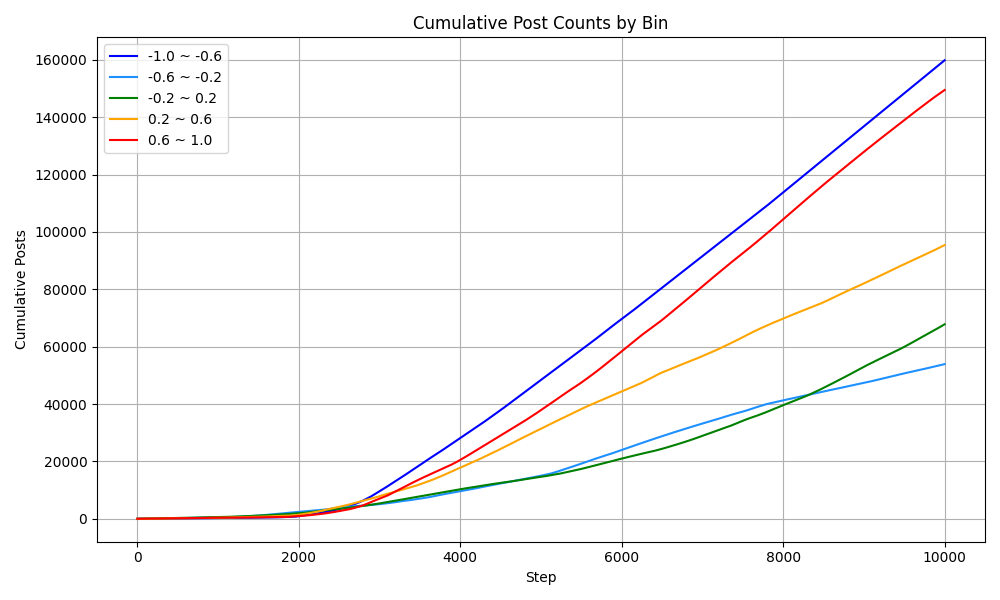
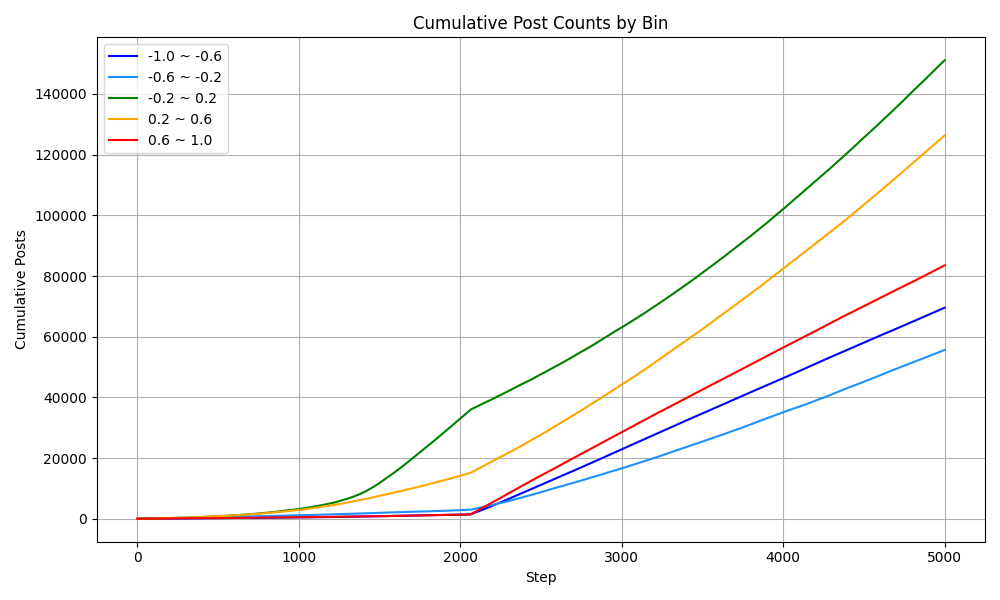
experiment does not go well

diff --git a/src/agent/Agent.java b/src/agent/Agent.java
@@ -40,6 +40,7 @@ public class Agent {
         this.postProb = Const.INITIAL_POST_PROB;
         this.followRate = Const.INITIAL_FOLLOW_RATE;
         this.unfollowRate = Const.INITIAL_UNFOLLOW_RATE;
+        setNumOfPosts(rand.nextInt(90) + 10);
         /*
          * if(0.1 > rand.nextDouble()){
          * this.traitor = true;
@@ -86,7 +87,7 @@ public class Agent {
         return this.postProb;
     }
 
-    public PostCash getPostCash(){
+    public PostCash getPostCash() {
         return this.postCash;
     }
 
@@ -147,6 +148,14 @@ public class Agent {
         this.feed = feed.clone();
     }
 
+    public void setPostProb(double value){
+        this.postProb = value;
+    }
+
+    public void setMediaUseRate(double value){
+        this.mediaUseRate = value;
+    }
+
     // other methods
     public void resetPostCash() {
         this.postCash.reset();
@@ -155,7 +164,7 @@ public class Agent {
 
     public void updateMyself() {
         // feedには誰の投稿を何件閲覧するかが書かれている
-        if(this.feed == null){
+        if (this.feed == null) {
             return;
         }
         Post[] tempFeed = this.feed.clone();
@@ -165,14 +174,14 @@ public class Agent {
         int comfortPostNum = 0;
         // feedに表示される投稿は全て閲覧する
         for (Post post : tempFeed) {
-                temp += post.getPostOpinion();
-                postNum++;
-                if (Math.abs(post.getPostOpinion() - this.opinion) < Const.MINIMUM_BC) {
-                    comfortPostNum++;
-                }
-                if(postNum > this.numOfPosts){
-                    break;
-                }
+            temp += post.getPostOpinion();
+            postNum++;
+            if (Math.abs(post.getPostOpinion() - this.opinion) < Const.MINIMUM_BC) {
+                comfortPostNum++;
+            }
+            if (postNum >= this.numOfPosts) {
+                break;
+            }
         }
 
         if (postNum == 0)
@@ -185,7 +194,7 @@ public class Agent {
             this.mediaUseRate += 0.01;
         } else {
             this.postProb -= 0.001;
-            this.mediaUseRate -= 0.001;
+            this.mediaUseRate -= 0.00;
         }
 
         this.opinion = this.tolerance * this.intrinsicOpinion + (1 - this.tolerance) * (temp / postNum);
@@ -240,6 +249,36 @@ public class Agent {
     }
 
     public int follow(List<Integer> followList, Agent[] agentSet) {
+        if(this.followRate < rand.nextDouble()){
+            return -1;
+        }
+        List<Post> candidates = new ArrayList<>();
+        if (this.postCash.getSize() <= 0) {
+            return -1;
+        }
+
+        // 条件に合う投稿をすべてリストアップ
+        for (Agent agent : agentSet) {
+            if (!followList.contains(agent.getId()) || this.id == agent.getId()) {
+                continue;
+            }
+            for (Post post : agent.getPostCash().getAllPosts()) {
+                if (Math.abs(post.getPostOpinion() - this.opinion) < this.bc && post.getPostUserId() != this.id) {
+                    candidates.add(post);
+                }
+            }
+        }
+
+        // 条件に合う投稿が存在すればランダムに1つ選ぶ
+        if (!candidates.isEmpty()) {
+            Post followedPost = candidates.get(rand.nextInt(candidates.size()));
+            return followedPost.getPostUserId();
+        } else {
+            return -1;
+        }
+    }
+
+    public int followPast(List<Integer> followList, Agent[] agentSet) {
         int followId;
         int attempts = 0;
         if (followList.size() <= 0 || this.followRate < rand.nextDouble()) {

diff --git a/src/dynamics/OpinionDynamics.java b/src/dynamics/OpinionDynamics.java
@@ -6,10 +6,7 @@ import constants.Const;
 import gephi.GraphVisualize;
 import java.time.Duration;
 import java.time.Instant;
-import java.util.ArrayList;
-import java.util.HashSet;
-import java.util.List;
-import java.util.Random;
+import java.util.*;
 import network.*;
 import optim.*;
 import rand.randomGenerater;
@@ -49,7 +46,7 @@ public class OpinionDynamics {
     private void setNetwork() {
         ///// you can change the initial network bellow
         // this.network = new RandomNetwork(agentNum, connectionProbability);
-        this.network = new ConnectingNearestNeighborNetwork(agentNum, 0.9);
+        this.network = new ConnectingNearestNeighborNetwork(agentNum, 0.5);
         /////
 
         this.network.makeNetwork(agentSet);
@@ -97,23 +94,25 @@ public class OpinionDynamics {
                 agent.setFeed(admin.AdminFeedback(agentId, agentSet));
 
                 int likedId = agent.like();
-                //int likedId = -1;
+                if(likedId != -1){
+                    agentSet[likedId].setPostProb(agentSet[likedId].getPostProb() + 0.01);
+                    agentSet[likedId].setMediaUseRate(agentSet[likedId].getMediaUseRate() + 0.00);
+                }
 
                 /// follow
                 
                 // 全体からフォローできる
-                List<Integer> followList = new ArrayList<>();
+                /*List<Integer> followList = new ArrayList<>();
                 for (int j = 0; j < agentNum; j++) {
                     if (agentId != j && W[agentId][j] == 0.0) {
                         followList.add(j);
                     }
                 }
                 // 重複を削除 (フォローしているユーザがフォローしているユーザは被る可能性がある)
-                followList = new ArrayList<>(new HashSet<>(followList));
+                followList = new ArrayList<>(new HashSet<>(followList));*/
                 
                 
                 // 友達の友達からフォローできる
-                /*List<Integer> followList = new ArrayList<>();
                 Set<Integer> candidates = new HashSet<>();
                 // 自分のフォロー相手（1次近傍）を取得
                 for (int j = 0; j < agentNum; j++) {
@@ -126,7 +125,7 @@ public class OpinionDynamics {
                         }
                     }
                 }
-                followList = new ArrayList<>(candidates);*/
+                List<Integer> followList = new ArrayList<>(candidates);
 
                 int followedId = agent.follow(followList, agentSet);
                 //int followedId = -1;
@@ -149,7 +148,7 @@ public class OpinionDynamics {
                 agent.updateMyself();
                 admin.updateAdjacencyMatrix(agentId, likedId, followedId, unfollowedId);
                 agent.resetPostCash();
-                ASChecker.assertionChecker(agentSet, network, agentNum, step);
+                ASChecker.assertionChecker(agentSet, admin.getAdjacencyMatrix(), agentNum, step);
                 if (followedId > 0) {
                     followActionNum++;
                 }

diff --git a/src/constants/Const.java b/src/constants/Const.java
@@ -2,44 +2,43 @@ package constants;
 
 public class Const {
     // simulation parameter
-    public static final int MAX_SIMULATION_STEP = 10000;
+    public static final int MAX_SIMULATION_STEP = 5000;
     public static final int NUM_OF_USER = 200;
     public static final int NUM_OF_SNS_USER = NUM_OF_USER;
-    public static final int RANDOM_SEED = 5;
+    public static final int RANDOM_SEED = 0;
 
     // Admin feedback parameter
     // public static final double FEEDBACK_INCREASE_WEIGHT = 0.1;
-    public static final double LIKE_INCREASE_WEIGHT = 0.001;
-    public static final double FOLLOW_INCREASE_WEIGHT = 0.1;
+    public static final double LIKE_INCREASE_WEIGHT = 0.01;
+    public static final double FOLLOW_INCREASE_WEIGHT = 0.2;
 
     // public static final double UNACCEPTABLE_BOUNDED_CONFIDENCE = 0.7;
 
     // network parameter
     public static final double CONNECTION_PROB_OF_RANDOM_NW = 0.2;
 
-    // follow parameter
-    public static final double INITIAL_FOLLOW_RATE = 0.1;
-
-    // unfollow parameter
-    public static final double INITIAL_UNFOLLOW_RATE = 0.1;
-    //public static final double MIN_OPINION_DIFF_TO_UNFOLLOW = 0.4;
-
     // agent parameter
     public static final double INITIAL_POST_PROB = 0.1;
     public static final double BOUNDED_CONFIDENCE = 1.5;
     public static final double MINIMUM_BC = 0.1;
-    public static final double INITIAL_MEDIA_USER_RATE = 0.1;
+    public static final double INITIAL_MEDIA_USER_RATE = 0.2;
     public static final double COMFORT_RATE = 0.5;
-    public static final double INITIAL_TOLERANCE = 0.8; // 決してunrealisticではない
-    public static final int MAX_READABLE_POSTS_NUM = 100;
+    public static final double INITIAL_TOLERANCE = 0.8; // 0.8は決してunrealisticではない
+    public static final int MAX_READABLE_POSTS_NUM = 50;
+
+    // follow parameter
+    public static final double INITIAL_FOLLOW_RATE = 0.5;
+
+    // unfollow parameter
+     public static final double INITIAL_UNFOLLOW_RATE = 0.5;
+    // public static final double MIN_OPINION_DIFF_TO_UNFOLLOW = 0.4;
 
     // input data parameter
     public static final String EDGES_FILE_PATH = "Twitter/edgesTwitter.txt";
     public static final String OPINION_FILE_PATH = "Twitter/Twitter_opinion.txt";
 
-
     // result data parameter
-    public static final String[] RESULT_LIST = {"opinionVar", "postOpinionVar","follow", "unfollow", "rewire"};
+    public static final String[] RESULT_LIST = { "opinionVar", "postOpinionVar", "follow", "unfollow", "rewire" };
     public static final String RESULT_FOLDER_PATH = "results";
     public static final int NUM_OF_BINS_OF_POSTS = 5; // 投稿のデータをopinionごとに集計する際に何分割するか
     public static final int NUM_OF_BINS_OF_OPINION = 5; // 描画するときのopinonを何分割するか

diff --git a/src/network/ConnectingNearestNeighborNetwork.java b/src/network/ConnectingNearestNeighborNetwork.java
@@ -38,13 +38,13 @@ public class ConnectingNearestNeighborNetwork extends Network {
 
     @Override
     public void makeNetwork(Agent[] agentSet) {
-        int seedNodes = Math.min(10, getSize()); // 最初に作るノード数
+        int seedNodes = Math.min(20, getSize()); // 最初に作るノード数
         int currentSize = seedNodes;
 
         // 初期ノード間をランダムに接続
         for (int i = 0; i < seedNodes; i++) {
             for (int j = 0; j < seedNodes; j++) {
-                if (i != j && rand.nextDouble() < 0.5) {
+                if (i != j && rand.nextDouble() < 0.2) {
                     int weight = rand.nextInt(5) + 1;
                     setEdge(i, j, weight);
                 }
@@ -54,18 +54,18 @@ public class ConnectingNearestNeighborNetwork extends Network {
         // 本処理: 残りノードを追加していく
         while (currentSize < getSize()) {
             if (rand.nextDouble() < p && !potentialEdges.isEmpty()) {
-                // potential edge を実エッジに変換
+                // make potential edge to the real edge with Prob p
                 List<Edge> list = new ArrayList<>(potentialEdges);
                 Edge edge = list.get(rand.nextInt(list.size()));
                 setEdge(edge.from, edge.to, rand.nextInt(5) + 1);
                 potentialEdges.remove(edge);
             } else {
-                // 新しいノードを追加
+                // follow someone (maybe his or her friend)
                 int newNode = currentSize;
                 int existingNode = rand.nextInt(currentSize);
                 setEdge(newNode, existingNode, rand.nextInt(5) + 1);
 
-                // 既存ノードの隣接ノードからpotential edgeを作成
+                // the friend's friend can be a "potential edge" (he or she likely follow their friend's friends)
                 for (int neighbor = 0; neighbor < currentSize; neighbor++) {
                     if (this.adjacencyMatrix[existingNode][neighbor] > 0 && neighbor != newNode) {
                         potentialEdges.add(new Edge(newNode, neighbor));
@@ -82,7 +82,6 @@ public class ConnectingNearestNeighborNetwork extends Network {
             for (int j = 0; j < getSize(); j++) {
                 rowSum += this.adjacencyMatrix[i][j];
             }
-            agentSet[i].setNumOfPosts(rowSum);
             if (rowSum > 0) {
                 for (int j = 0; j < getSize(); j++) {
                     if (this.adjacencyMatrix[i][j] > 0) {

diff --git a/src/optim/AdminOptim.java b/src/optim/AdminOptim.java
@@ -36,8 +36,8 @@ public class AdminOptim {
 
     public void updateAdjacencyMatrix(int userId, int likedId, int followedId, int unfollowedId) {
         if (likedId > 0) {
-            // this.W[userId][likedId] += Const.LIKE_INCREASE_WEIGHT;
-            this.W[userId][likedId] = 1.01 * this.W[userId][likedId];
+            this.W[userId][likedId] += Const.LIKE_INCREASE_WEIGHT;
+            // this.W[userId][likedId] = 1.01 * this.W[userId][likedId];
             // System.out.println("increased weight : " + this.W[userId][likedId]);
         }
         if (followedId > 0) {
@@ -83,23 +83,28 @@ public class AdminOptim {
     public Post[] AdminFeedback(int userId, Agent[] agentSet) {
         int maxPostNum = Const.MAX_READABLE_POSTS_NUM; // このユーザーが閲覧できる最大投稿数
         PostCash postCash = agentSet[userId].getPostCash(); // このユーザーが使うPostCashオブジェクト
-        Post[] allPosts = postCash.getAllPosts();           // 投稿の配列（仮にキュー的な構造になっている）
-    
+        Post[] allPosts = postCash.getAllPosts(); // 投稿の配列（仮にキュー的な構造になっている）
+
         // 投稿元ユーザーのfollower数に基づいて投稿を並び替えるためのComparator
         Arrays.sort(allPosts, (a, b) -> {
             int idA = a.getPostUserId();
             int idB = b.getPostUserId();
-            return Integer.compare(followerNumArray[idB], followerNumArray[idA]); // 降順（多い順）
+            double alpha = 10.0; // W の影響を強めたいなら α > 1
+            //double scoreA = followerNumArray[idA] * Math.pow(this.W[userId][idA], alpha);
+            //double scoreB = followerNumArray[idB] * Math.pow(this.W[userId][idB], alpha);
+            double scoreA = Math.pow(this.W[userId][idA], alpha);
+            double scoreB = Math.pow(this.W[userId][idB], alpha);
+            return Double.compare(scoreB, scoreA);
         });
-    
+
         // フィードとして投稿を最大maxPostNum個まで抽出
         int num = Math.min(maxPostNum, allPosts.length);
         Post[] feedQueue = new Post[num];
         for (int i = 0; i < num; i++) {
             feedQueue[i] = allPosts[i];
         }
-    
+
         return feedQueue;
     }
-    
+
 }

diff --git a/src/analysis/AssertionCheck.java b/src/analysis/AssertionCheck.java
@@ -18,8 +18,8 @@ public class AssertionCheck {
         this.maxStep = maxStep;
     }
 
-    public void assertionChecker(Agent[] agentSet, Network network, int agentNum, int step) {
-        double[][] tempAdjMatrix = network.getAdjacencyMatrix();
+    public void assertionChecker(Agent[] agentSet, double[][] W, int agentNum, int step) {
+        double[][] tempAdjMatrix = W.clone();
         // w行列の行方向の和は常に1.0
         for (int i = 0; i < n; i++) {
             double temp = 0;

diff --git a/src/network/RandomNetwork.java b/src/network/RandomNetwork.java
@@ -35,7 +35,6 @@ public class RandomNetwork extends Network {
             for (int j = 0; j < size; j++) {
                 rowSum += tempMatrix[i][j];
             }
-            agentSet[i].setNumOfPosts(rowSum);
             if (rowSum > 0) {
                 for (int j = 0; j < size; j++) {
                     if (tempMatrix[i][j] > 0) {

diff --git a/python/scripts/post_analysis.py b/python/scripts/post_analysis.py
@@ -2,7 +2,7 @@ import pandas as pd
 import matplotlib.pyplot as plt
 import os
 
-def read_and_accumulate_bins(data_dir, bins, max_index=10000):
+def read_and_accumulate_bins(data_dir, bins, max_index=5000):
     cumulative_counts = {bin_name: [] for bin_name in bins}
     current_cumulative = {bin_name: 0 for bin_name in bins}
     x = []
